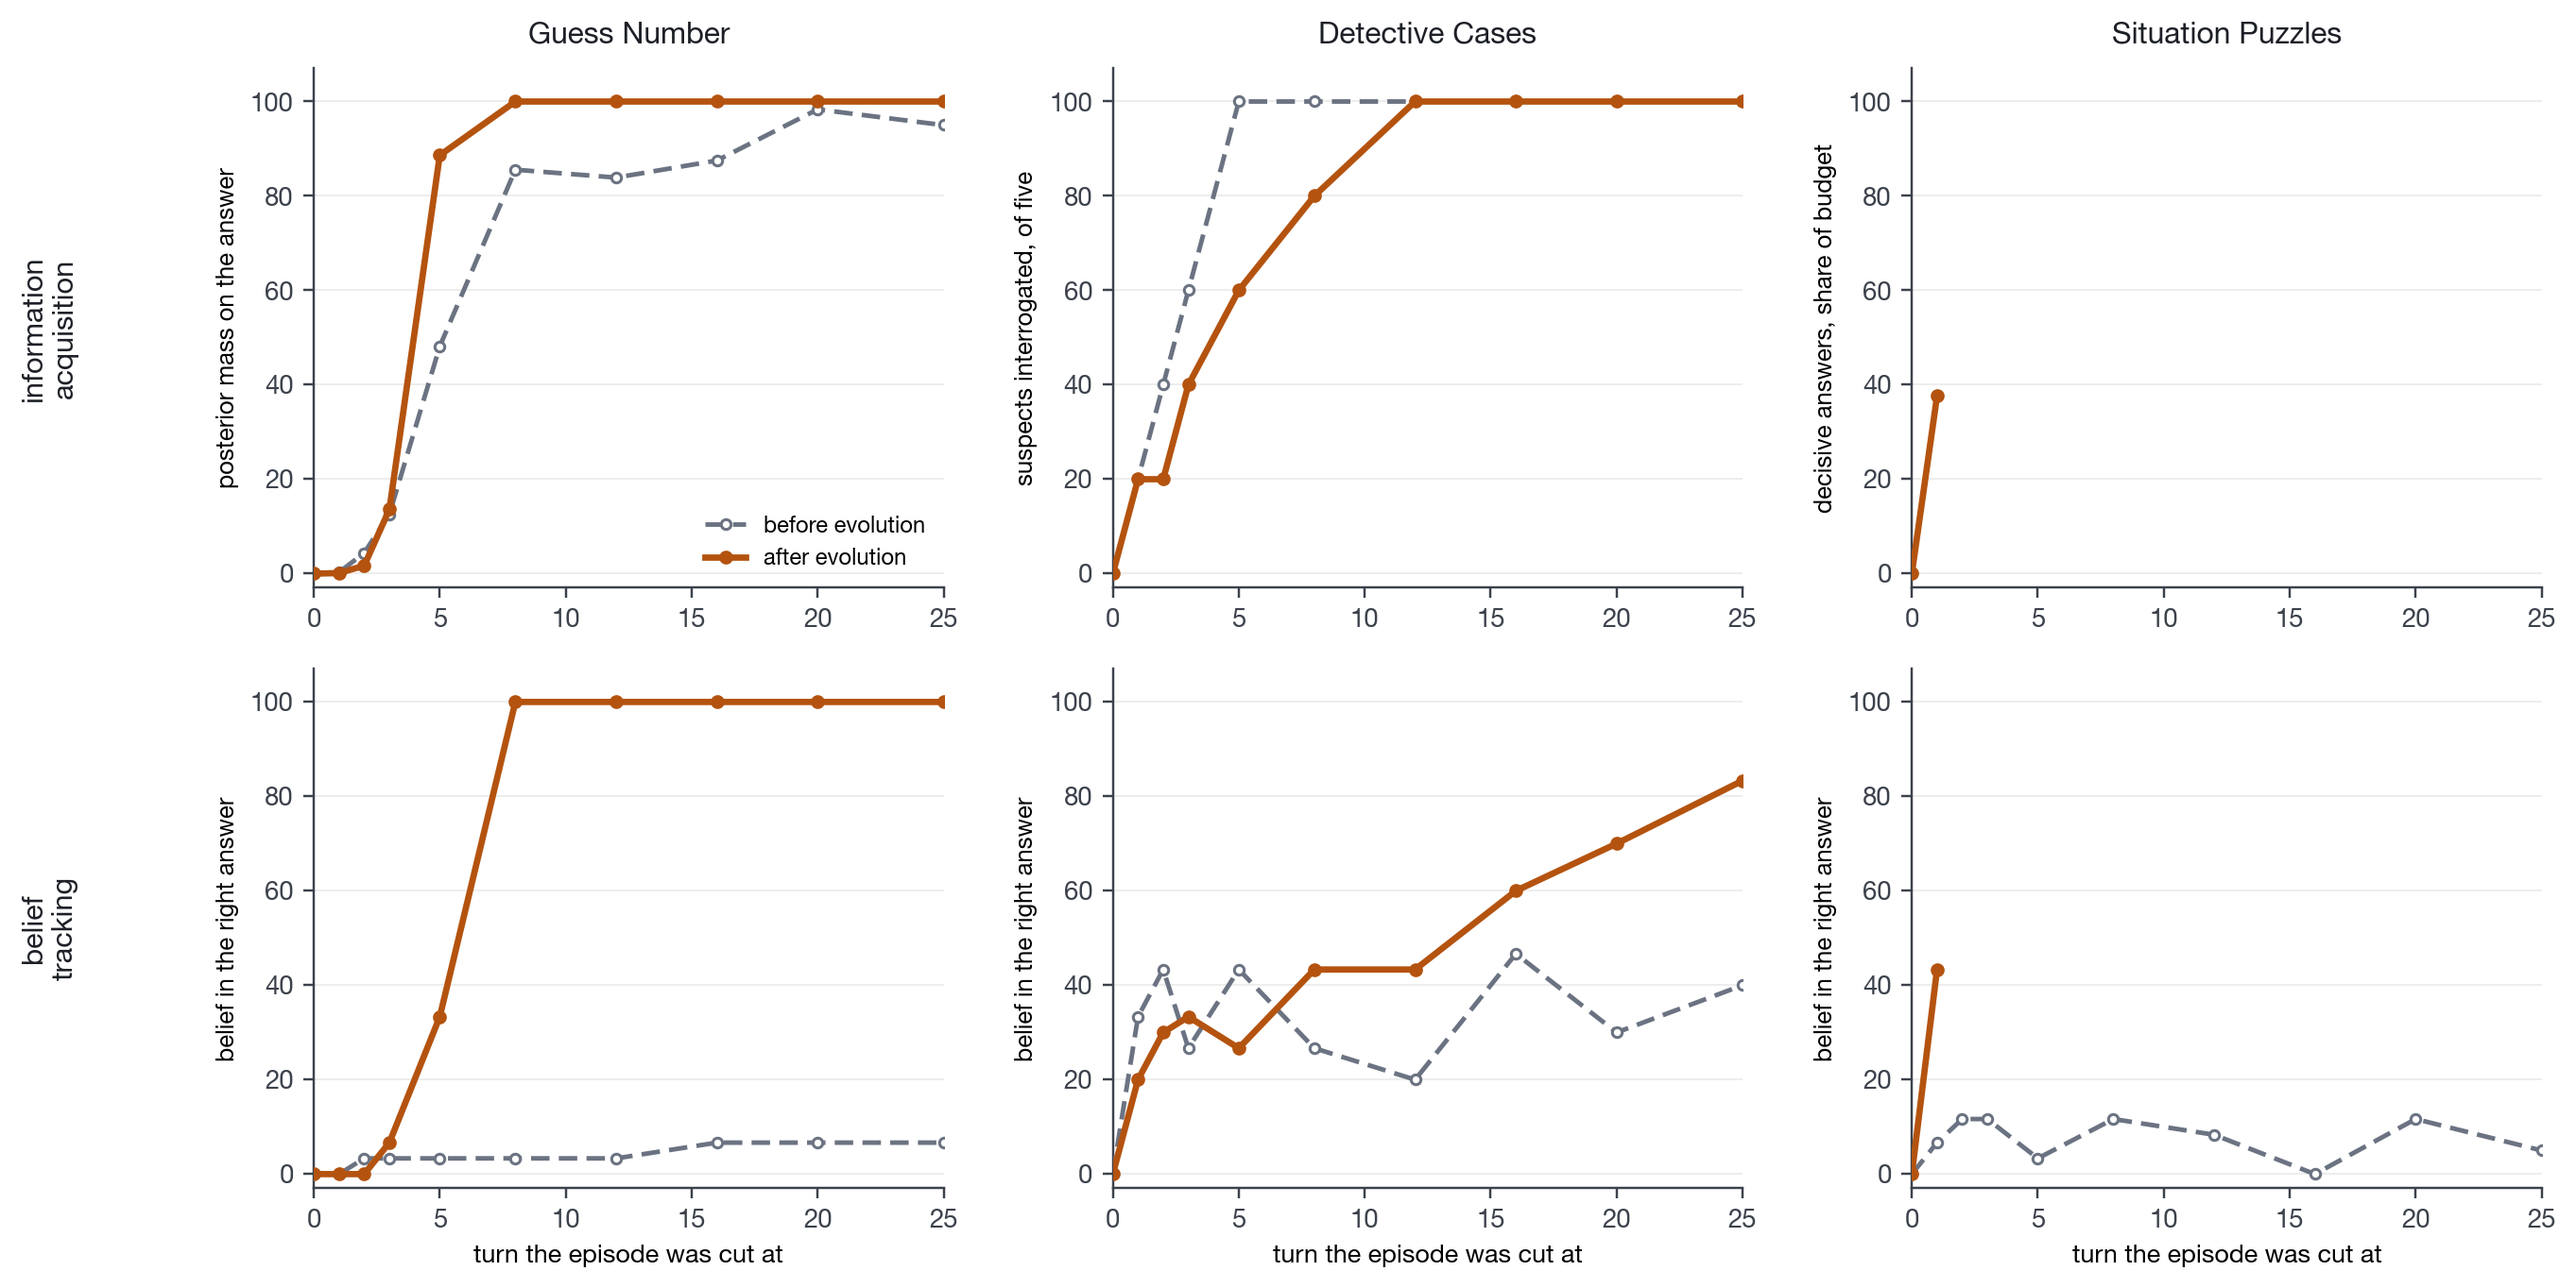
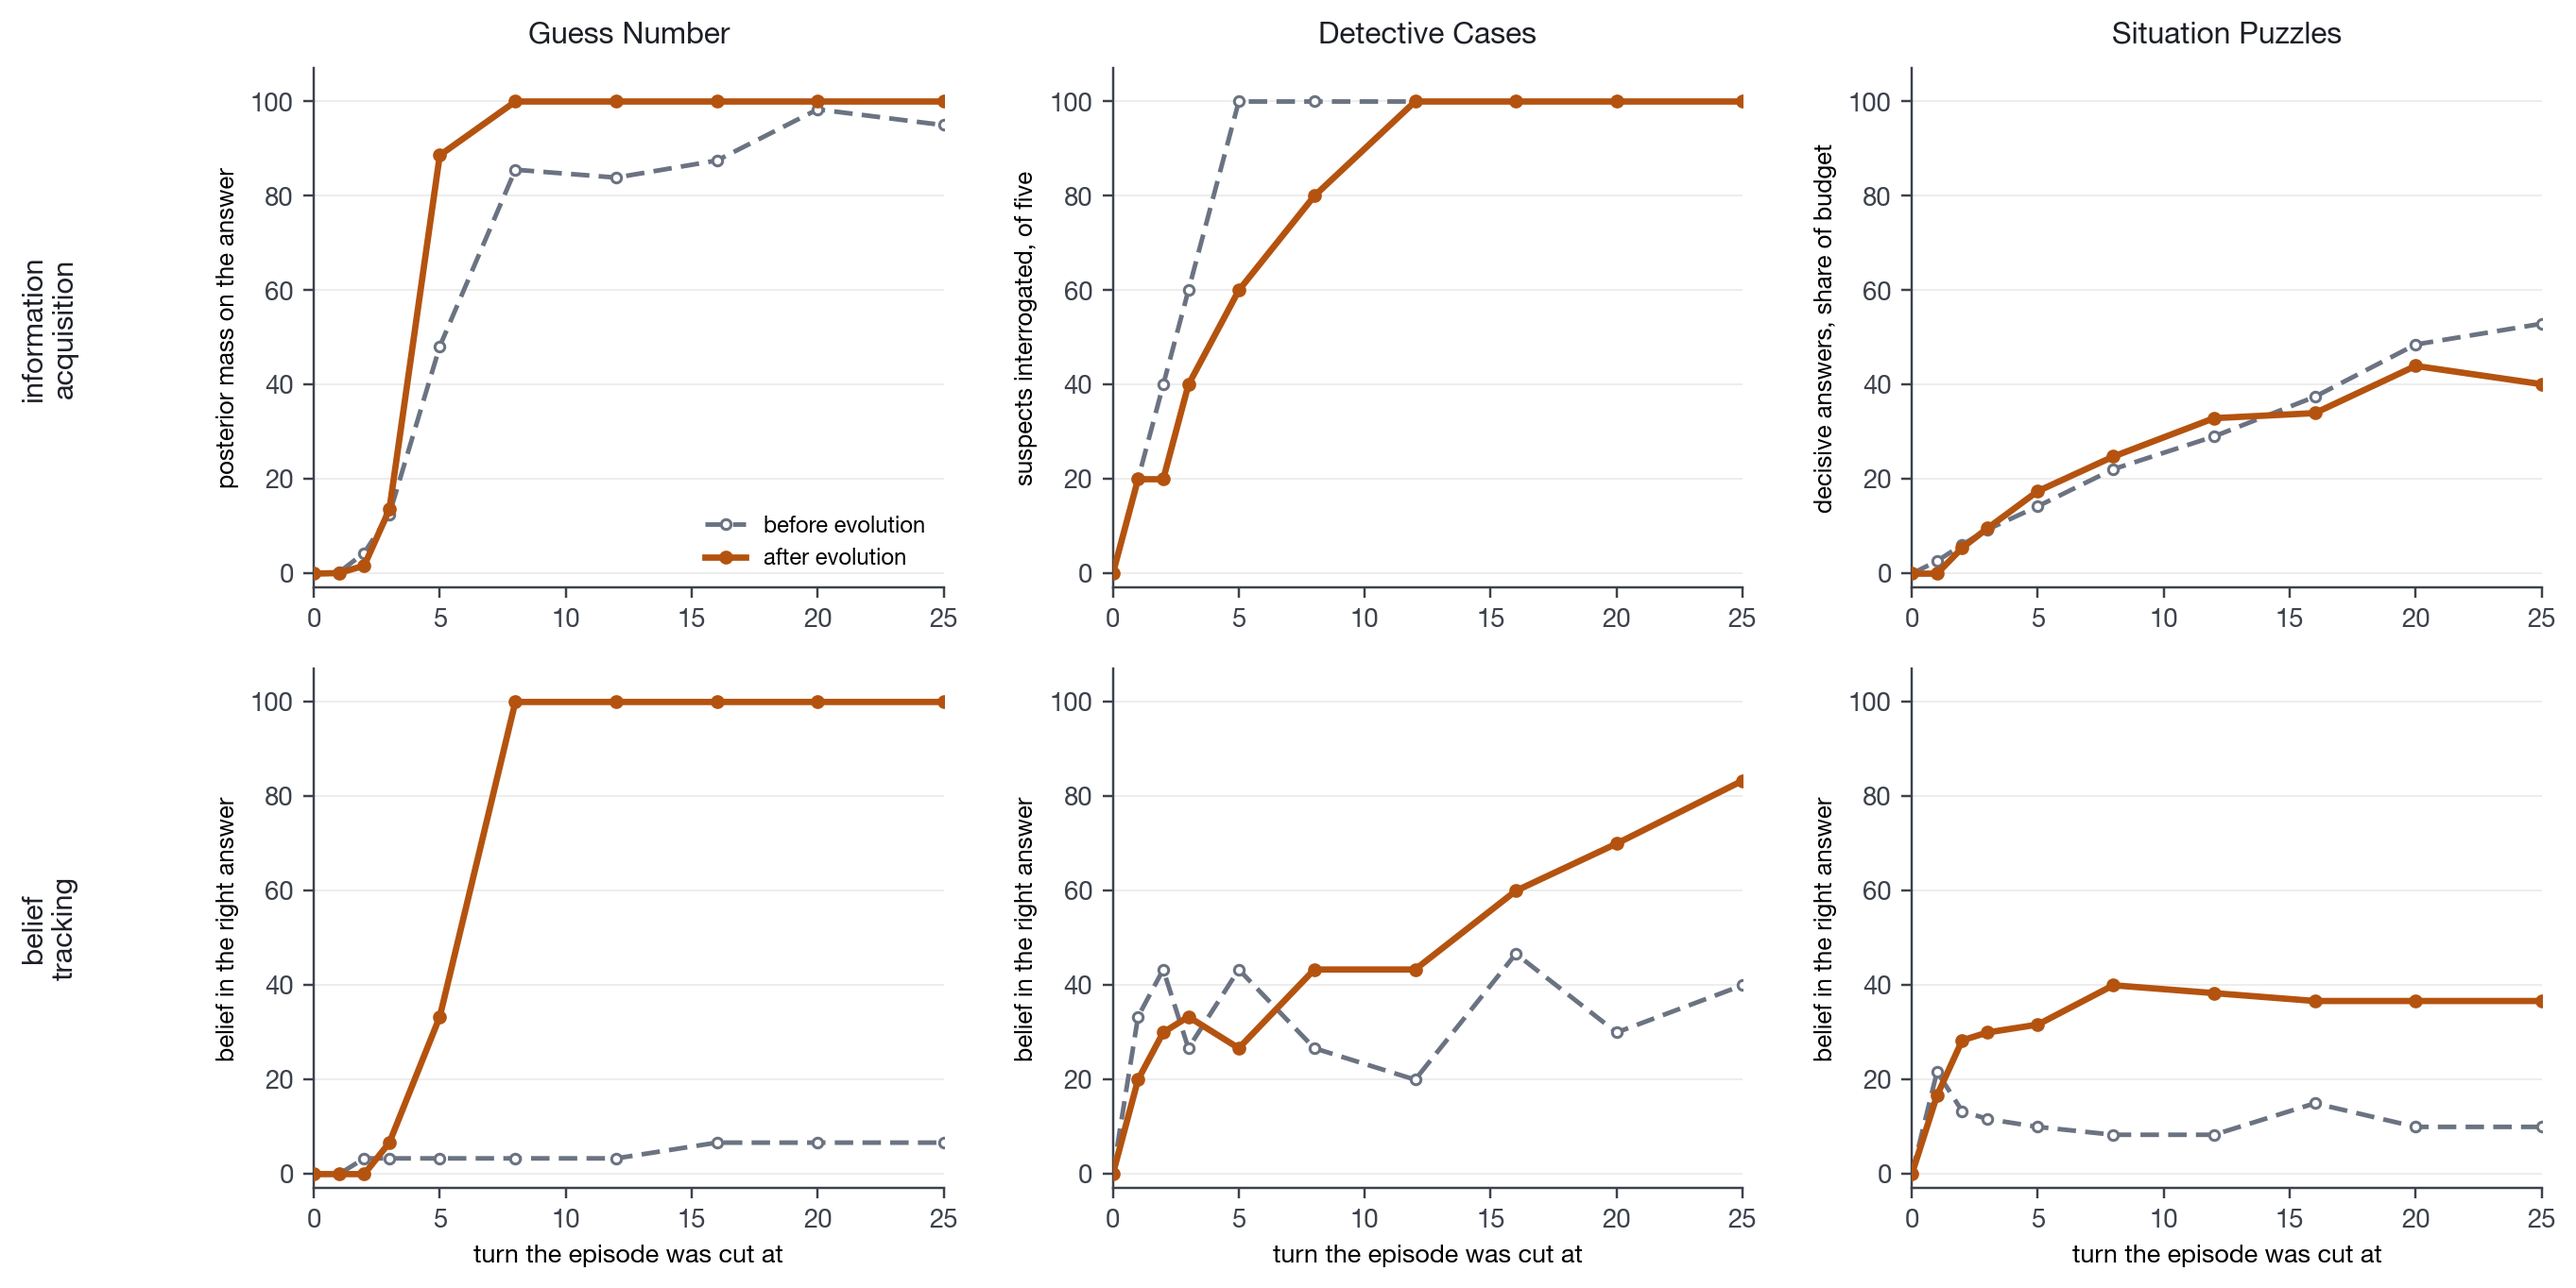
notes: the complete picture -- information acquisition did not move, belief tracking did
All six panels now have data. SP's belief sweep had to be run twice: the first
pass never applied --budget, so every point ran the full 25 turns and its flat
"trajectory" was resampling noise around 42.

At turn 25, before to after: gn IA 95.0 -> 100.0 and BT 6.7 -> 100.0; dc IA
100.0 -> 100.0 and BT 40.0 -> 83.3; sp IA 52.9 -> 40.1 and BT 10.0 -> 36.7. On
every task the questions bought no more information than before -- on Situation
Puzzles they bought measurably less, because the evolved harness stops at
certification -- and what changed is what the system did with it.

An empty transcript is a reading of zero, not a gap: atomic_audit at budget 1
asks nothing at all and answers straight away.

diff --git a/meta/tools/dump_curves.py b/meta/tools/dump_curves.py
@@ -75,7 +75,7 @@ def main(root):
         # Per budget, not all-or-nothing: a run written before transcripts were recorded leaves
         # a gap in the curve rather than deleting it.
         rec["ia"] = [(sum(ia(task, r["history"]) for r in runs[T][0][:n]) / n
-                      if all(r.get("history") for r in runs[T][0][:n]) else None) for T in Ts]
+                      if all("history" in r for r in runs[T][0][:n]) else None) for T in Ts]
         if not any(v is not None for v in rec["ia"]):
             rec["ia"] = None
         out[pref] = rec

diff --git a/notes/arbench_mh/ia_bt.md b/notes/arbench_mh/ia_bt.md
@@ -87,46 +87,68 @@ it -- which is the point -- but the row is about a harness-as-solver.
 Under ablation, `IA` is computed against the decoy's feedback, so it measures consistency with
 the decoy, not information about the target. Ignore that column on ablated rows.
 
-## 3. Belief trajectory
+## 3. Both abilities, per turn, on all three benchmarks
 
-The belief that matters is the system's, harness state included. Instructing a harness to maintain
-and report a belief vector -- AREW's method -- installs the scaffold the search is meant to invent,
-and probing the frozen model with the raw transcript reads the bare model with the scaffold
-stripped off. So the belief at turn t is read by **ending the episode at turn t and taking the
-system's answer**: whatever state the harness keeps is in that answer by construction.
+The two quantities are processes, as AREW states them: I_AS telescopes a sum of one-step oracle
+gains and C_BT sums the agent's own positive one-step gains. So they are read per turn, not once
+at the end.
 
-Two costs, run as controls rather than assumed away. The harness sees a shorter budget, so the
-full budget must reproduce the ordinary run. And the runs are independent samples at temperature
-0.7, so the full budget is run twice and that disagreement rate is the floor under any drift
-number. n = 30.
+**Belief tracking** is read by ending the episode at turn t and taking the system's answer.
+Instructing a harness to maintain and report a belief vector -- AREW's method -- installs the
+scaffold the search is meant to invent, and probing the frozen model with the raw transcript reads
+the bare model with the scaffold stripped off. Ending the episode early keeps whatever state the
+harness holds, by construction. Its two costs are run as controls: the harness sees a shorter
+budget, so the full budget must reproduce the ordinary run, and the runs are independent samples at
+temperature 0.7, so the full budget is run twice and that disagreement rate floors any drift claim.
 
-Guess Number, oracle `1/|H_t|` against the system's answer:
+**Information acquisition** is the same measurement only on Guess Number. Elsewhere it takes a task
+proxy, the way T3 instantiates one criterion per task from whatever the transcript makes
+observable:
 
-| turn | before: oracle / system | after: oracle / system |
+| | proxy | why |
 |---|---|---|
-|  3 |  9.0 /  3.3 |  14.2 /   6.7 |
-|  5 | 42.8 /  3.3 |  83.7 /  33.3 |
-|  8 | 79.4 /  3.3 | 100.0 / 100.0 |
-| 16 | 95.0 /  6.7 | 100.0 / 100.0 |
-| 25 | 95.0 /  6.7 | 100.0 / 100.0 |
+| gn | the oracle's posterior mass, mean `1/\|H_t\|` | exact: deterministic feedback, and the target is always in `H_t` |
+| dc | distinct suspects interrogated, of five | a suspect never heard cannot be ruled in or out |
+| sp | turns that got a decisive answer, share of budget | T3's own SP rule: a referee "unknown" taught nothing |
 
-Before, the gap opens to -88.3 and never closes: the information arrives turn after turn and the
-belief does not move. After, it is zero from turn 8.
+All three are bounded and monotone within an episode and that is all they share. Across budget
+points they need not be monotone, because those are independent runs, not one episode observed
+repeatedly.
 
-Detective Cases has no oracle column, so only the system curve:
+Figure: `figures/fig_ia_bt.png`, numbers in `notes/arbench_mh/ia_bt_curves.json`. n = 30.
 
-| turn | 1 | 2 | 3 | 5 | 8 | 12 | 16 | 20 | 25 |
-|---|---|---|---|---|---|---|---|---|---|
-| `template_zero_shot` (before) | 33.3 | 43.3 | 26.7 | 43.3 | 26.7 | 20.0 | 46.7 | 30.0 | 40.0 |
-| `lean_verify` (after)         | 20.0 | 30.0 | 33.3 | 26.7 | 43.3 | 43.3 | 60.0 | 70.0 | 83.3 |
+| at turn 25 | IA before → after | BT before → after |
+|---|---|---|
+| Guess Number       |  95.0 → 100.0  (+5.0)  |   6.7 → 100.0  (+93.3) |
+| Detective Cases    | 100.0 → 100.0  (+0.0)  |  40.0 →  83.3  (+43.3) |
+| Situation Puzzles  |  52.9 →  40.1  (-12.8) |  10.0 →  36.7  (+26.7) |
 
-Flat against monotone. Episodes right at some turn and wrong at the end: 43.3% before against a
-36.7% noise floor, 10.0% after against 16.7% -- the evolved harness is *below* its own floor, so
-there is no measurable self-destructive drift in it.
+**On all three, information acquisition did not improve, and belief tracking is what moved.** On
+Guess Number both conditions pin the answer down; the before harness then answers wrong anyway, its
+belief flat at 3-7 across all 25 turns while the oracle's climbs to 95. On Detective Cases the
+before harness covers all five suspects by turn 5 and the after one not until turn 12 -- it spends
+its first twenty turns on four rounds of testimony and only then asks the weapon probe -- and still
+ends at 83.3 against 40.0. On Situation Puzzles the after harness collects *fewer* decisive answers
+(40.1 against 52.9), because it stops at certification, and scores three times better.
+
+Shapes differ. Guess Number is a step: nothing until turn 3, everything by turn 8. Detective Cases
+accumulates gradually and is the only one still climbing at turn 25. Situation Puzzles is front
+loaded -- the evolved harness reaches 40.0 by turn 8 and then holds flat, so turns 9-25 buy it
+nothing.
+
+The before-evolution curves also differ in a way worth naming. On Detective Cases the before
+harness is not flat because it never learns; it churns, +33.3, +10.0, -16.7, +16.7, -16.7, -6.7,
++26.7, -16.7, +10.0, with 38 absorbed steps against 36 destroyed ones per episode, at a 36.7% noise
+floor. It is not accumulating, it is resampling. After evolution: 48 absorbed, 29 destroyed, at a
+16.7% floor.
 
 ## What is missing
 
-- SP has no IA/BT columns and DC has none either; §1 and §3 cover all three, §2 covers GN only.
+- §2's exact decomposition is GN-only. §1 and §3 cover all three, but §3's IA column is one exact
+  measure and two task proxies, which are not the same quantity and are never averaged.
+- The dc proxy is coarse: suspect coverage saturates by turn 12 in both conditions, so it can say
+  that coverage was never the bottleneck and nothing finer. It cannot see a change in *which*
+  suspect gets *which* probe, which is what lean_verify's own docstring says it changed.
 - DC's "before" is `template_zero_shot`, not a published method: the three published DC arms were
   scored through AR-Bench's own evaluator and were never wrapped on the harness interface, so they
   cannot take the ablation switch. `template_zero_shot` scores 31.0, inside the published band of
